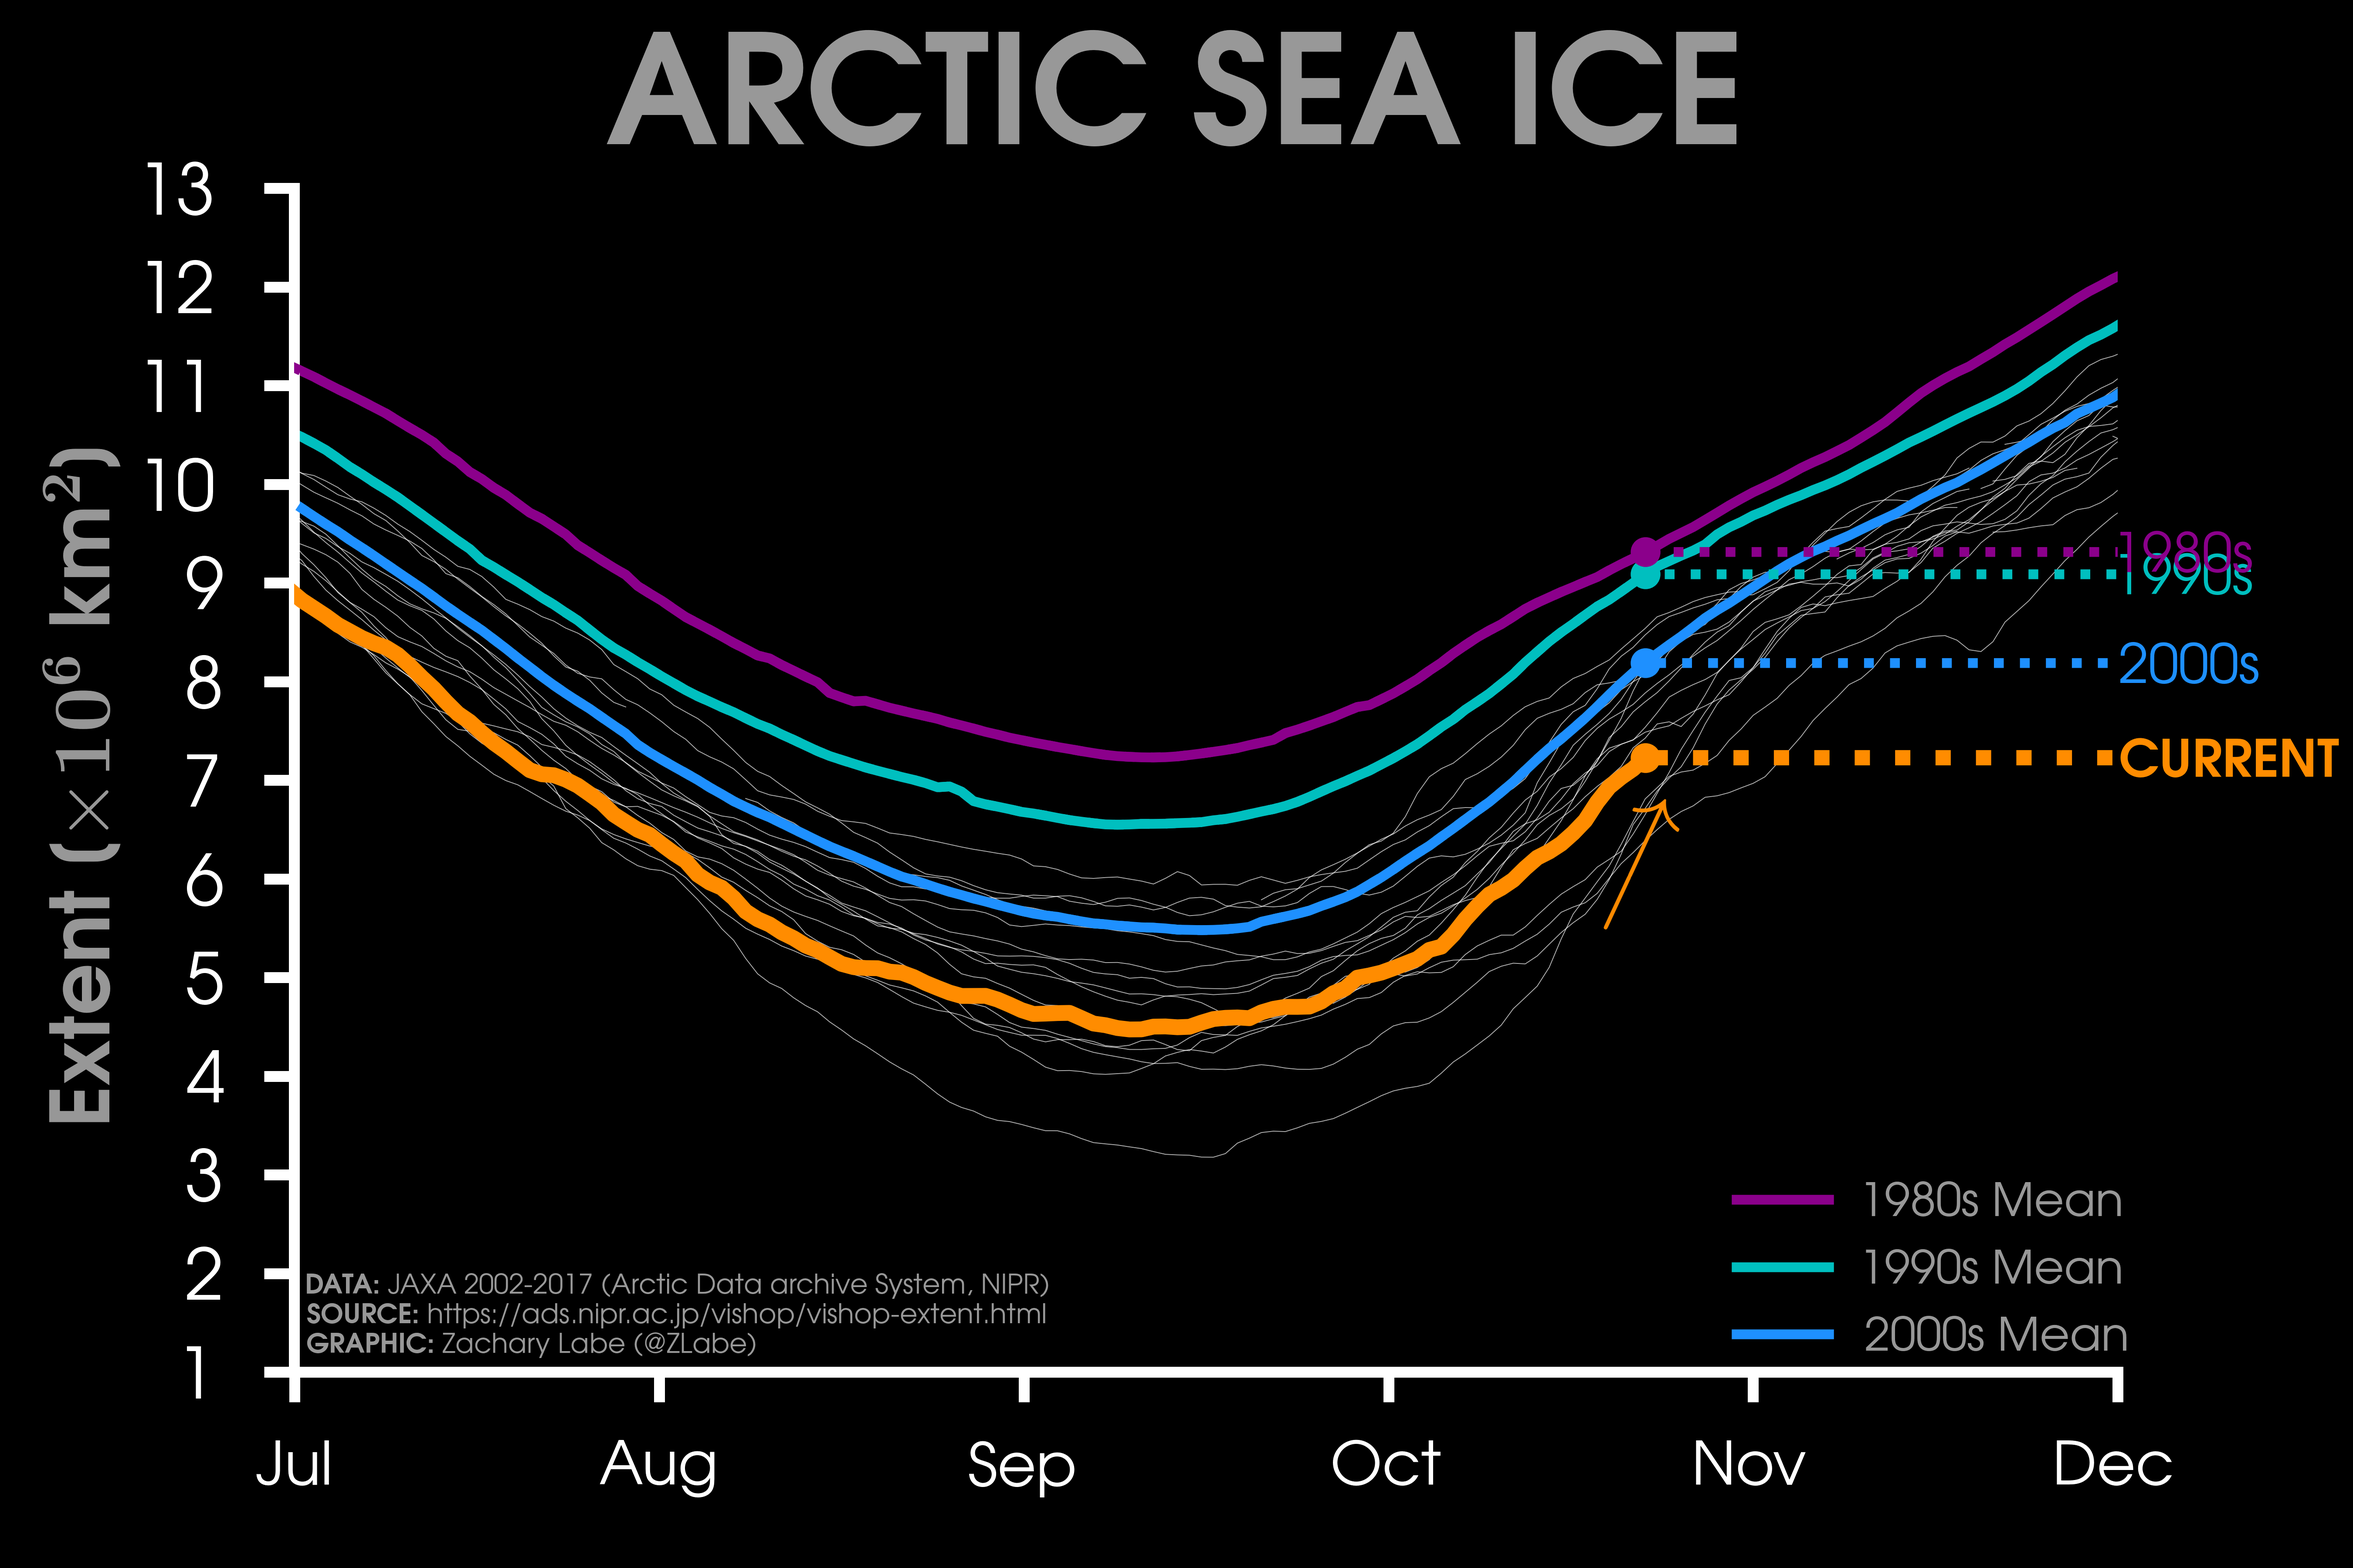
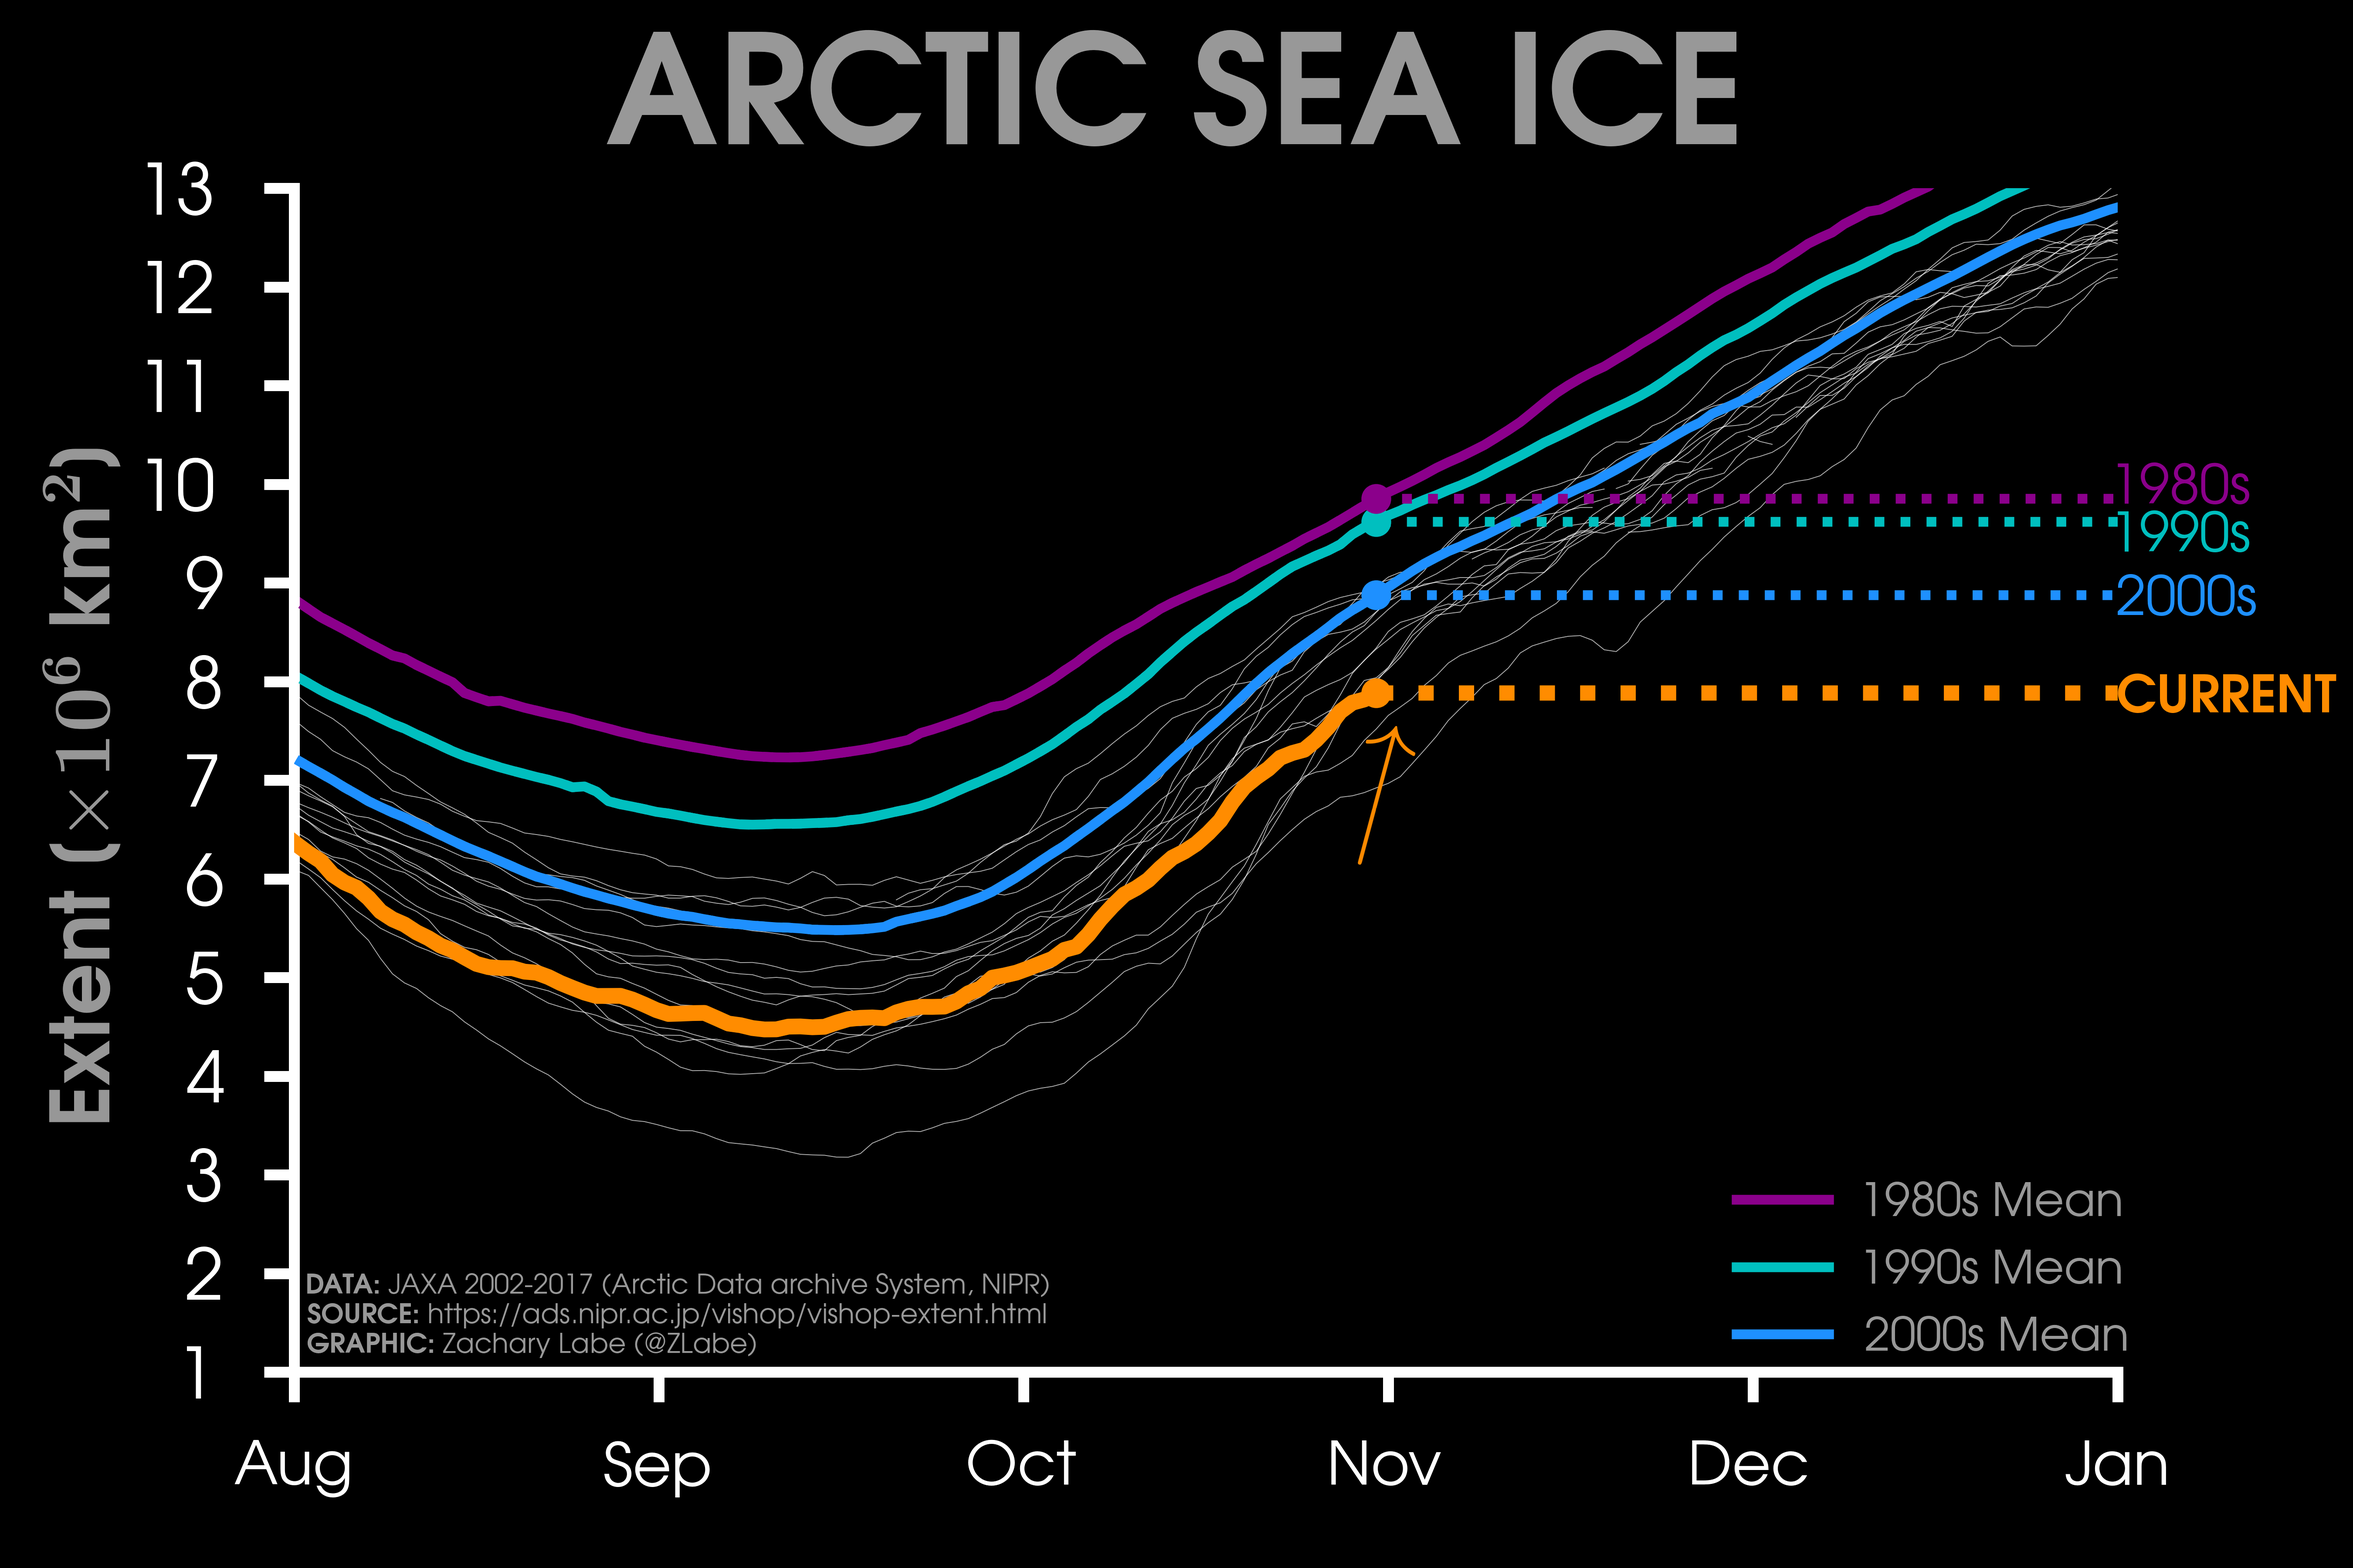
adjusted axis limits

diff --git a/Scripts/SeaIce/JAXA_seaice_1980smeanblack.py b/Scripts/SeaIce/JAXA_seaice_1980smeanblack.py
@@ -171,25 +171,25 @@ if recordlow[lastday] == 1.0:
 
 xcord = lastday - 5.5
 ycord = round(currentice)-0.8
-plt.text(183.4,1.80,r'\textbf{DATA:} JAXA 2002-2017 (Arctic Data archive System, NIPR)',
+plt.text(213.9,1.80,r'\textbf{DATA:} JAXA 2002-2017 (Arctic Data archive System, NIPR)',
          fontsize=5,rotation='horizontal',ha='left',color='w',alpha=0.6)
-plt.text(183.4,1.50,r'\textbf{SOURCE:} https://ads.nipr.ac.jp/vishop/vishop-extent.html',
+plt.text(213.9,1.50,r'\textbf{SOURCE:} https://ads.nipr.ac.jp/vishop/vishop-extent.html',
          fontsize=5,rotation='horizontal',ha='left',color='w',alpha=0.6)
-plt.text(183.4,1.20,r'\textbf{GRAPHIC:} Zachary Labe (@ZLabe)',
+plt.text(213.9,1.20,r'\textbf{GRAPHIC:} Zachary Labe (@ZLabe)',
          fontsize=5,rotation='horizontal',ha='left',color='w',alpha=0.6)
 
 plt.text(doy[lastday]+5,currentyear[lastday]-0.8,r'\textbf{$\bf{\longrightarrow}$}',
-             fontsize=18,rotation=65,ha='right',color='darkorange')
-plt.text(334.6,currentyear[lastday]-0.2,r'\textbf{CURRENT}',
+             fontsize=18,rotation=75,ha='right',color='darkorange')
+plt.text(364.8,currentyear[lastday]-0.2,r'\textbf{CURRENT}',
              fontsize=9.5,rotation='horizontal',ha='left',
              color='darkorange',alpha=1) 
-plt.text(334.6,mean2000[lastday]/1e6-0.2,r'2000s',
+plt.text(364.8,mean2000[lastday]/1e6-0.2,r'2000s',
              fontsize=10,rotation='horizontal',ha='left',
              color='dodgerblue') 
-plt.text(334.6,mean1990[lastday]/1e6-0.2,r'1990s',
+plt.text(364.8,mean1990[lastday]/1e6-0.3,r'1990s',
              fontsize=10,rotation='horizontal',ha='left',
              color='c')  
-plt.text(334.6,mean1980[lastday]/1e6-0.2,r'1980s',
+plt.text(364.8,mean1980[lastday]/1e6-0.05,r'1980s',
              fontsize=10,rotation='horizontal',ha='left',
              color='darkmagenta')              
            
@@ -214,7 +214,7 @@ plt.xticks(np.arange(0,366,30.4),xlabels,rotation=0,fontsize=11)
 ylabels = map(str,np.arange(1,18,1))
 plt.yticks(np.arange(1,18,1),ylabels,fontsize=13)
 plt.ylim([1,13])
-plt.xlim([182.35,334.4])
+plt.xlim([212.8,364.8])
 fig.suptitle(r'\textbf{ARCTIC SEA ICE}',fontsize=28,color='w',alpha=0.6) 
 
 plt.savefig(directoryfigure + 'JAXA_seaice_means_xe5.png',dpi=900)
